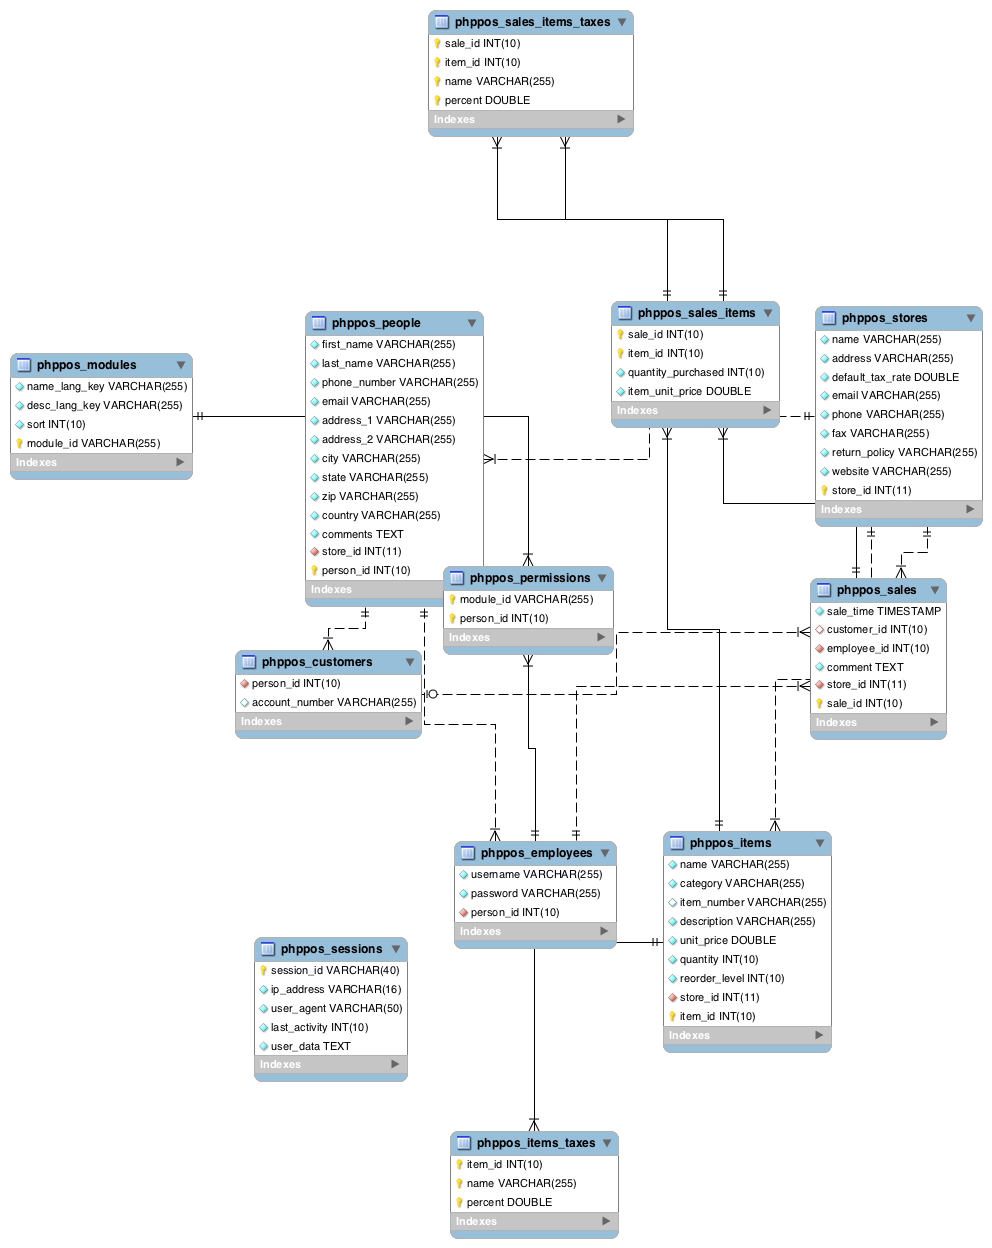
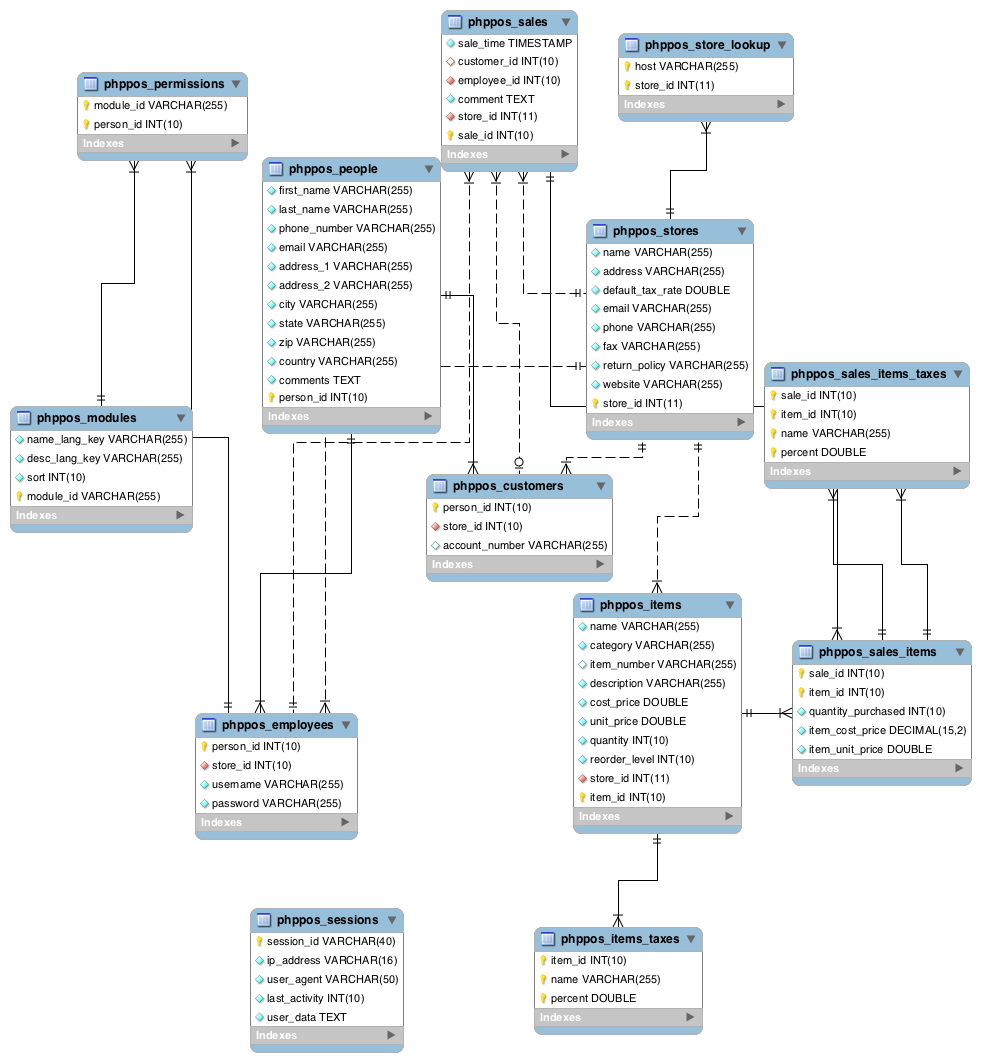
Adding support for multiple stores per install. Fixed some bugs because of multiple stores per install

Changed region(s): [[0.0612, 0.0, 1.0, 0.9944], [0.0, 0.2797, 0.2141, 0.5282]]

diff --git a/application/models/customer.php b/application/models/customer.php
@@ -21,7 +21,7 @@ class Customer extends Person
 	{
 		$this->db->from('customers');
 		$this->db->join('people','customers.person_id=people.person_id');
-		$this->db->where('people.store_id', $this->config->item('store_id'));
+		$this->db->where('customers.store_id', $this->config->item('store_id'));
 		$this->db->order_by("last_name", "asc");
 		return $this->db->get();		
 	}
@@ -147,6 +147,7 @@ class Customer extends Person
 		$suggestions = array();
 		
 		$this->db->from('customers');
+		$this->db->where('customers.store_id', $this->config->item('store_id'));
 		$this->db->join('people','customers.person_id=people.person_id');	
 		$this->db->like('first_name', $search); 
 		$this->db->or_like('last_name', $search);
@@ -159,6 +160,7 @@ class Customer extends Person
 		}
 		
 		$this->db->from('customers');
+		$this->db->where('customers.store_id', $this->config->item('store_id'));
 		$this->db->join('people','customers.person_id=people.person_id');	
 		$this->db->like("email",$search);
 		$this->db->order_by("email", "asc");		
@@ -169,6 +171,7 @@ class Customer extends Person
 		}
 
 		$this->db->from('customers');
+		$this->db->where('customers.store_id', $this->config->item('store_id'));
 		$this->db->join('people','customers.person_id=people.person_id');	
 		$this->db->like("phone_number",$search);
 		$this->db->order_by("phone_number", "asc");		
@@ -179,6 +182,7 @@ class Customer extends Person
 		}
 		
 		$this->db->from('customers');
+		$this->db->where('customers.store_id', $this->config->item('store_id'));
 		$this->db->join('people','customers.person_id=people.person_id');	
 		$this->db->like("account_number",$search);
 		$this->db->order_by("account_number", "asc");		
@@ -205,6 +209,7 @@ class Customer extends Person
 		$suggestions = array();
 		
 		$this->db->from('customers');
+		$this->db->where('customers.store_id', $this->config->item('store_id'));
 		$this->db->join('people','customers.person_id=people.person_id');	
 		$this->db->like('first_name', $search); 
 		$this->db->or_like('last_name', $search);
@@ -230,6 +235,7 @@ class Customer extends Person
 	function search($search)
 	{
 		$this->db->from('customers');
+		$this->db->where('customers.store_id', $this->config->item('store_id'));
 		$this->db->join('people','customers.person_id=people.person_id');		
 		$this->db->like('first_name', $search);
 		$this->db->or_like('last_name', $search); 

diff --git a/application/models/item.php b/application/models/item.php
@@ -63,6 +63,7 @@ class Item extends Model
 	function get_item_id($item_number)
 	{
 		$this->db->from('items');
+		$this->db->where('store_id', $this->config->item('store_id'));
 		$this->db->where('item_number',$item_number);
 		$query = $this->db->get();
 		
@@ -204,6 +205,7 @@ class Item extends Model
 		$suggestions = array();
 		
 		$this->db->from('items');
+		$this->db->where('store_id', $this->config->item('store_id'));
 		$this->db->like('name', $search); 
 		$this->db->order_by("name", "asc");		
 		$by_name = $this->db->get();
@@ -213,6 +215,7 @@ class Item extends Model
 		}
 		
 		$this->db->from('items');
+		$this->db->where('store_id', $this->config->item('store_id'));
 		$this->db->distinct();		
 		$this->db->like('category', $search); 
 		$this->db->order_by("category", "asc");		
@@ -223,6 +226,7 @@ class Item extends Model
 		}
 
 		$this->db->from('items');
+		$this->db->where('store_id', $this->config->item('store_id'));
 		$this->db->like('item_number', $search); 
 		$this->db->order_by("item_number", "asc");		
 		$by_item_number = $this->db->get();
@@ -246,6 +250,7 @@ class Item extends Model
 		$suggestions = array();
 		
 		$this->db->from('items');
+		$this->db->where('store_id', $this->config->item('store_id'));		
 		$this->db->like('name', $search); 
 		$this->db->order_by("name", "asc");		
 		$by_name = $this->db->get();
@@ -268,6 +273,7 @@ class Item extends Model
 		$this->db->distinct();
 		$this->db->select('category');
 		$this->db->from('items');
+		$this->db->where('store_id', $this->config->item('store_id'));
 		$this->db->like('category', $search); 		
 		$this->db->order_by("category", "asc");		
 		$by_category = $this->db->get();
@@ -285,6 +291,7 @@ class Item extends Model
 	function search($search)
 	{
 		$this->db->from('items');
+		$this->db->where('store_id', $this->config->item('store_id'));
 		$this->db->like('name', $search); 
 		$this->db->or_like('item_number', $search);
 		$this->db->or_like('category', $search);

diff --git a/application/models/reports/report.php b/application/models/reports/report.php
@@ -28,10 +28,11 @@ abstract class Report extends Model
 	public function createSalesItemsTempTable()
 	{
 		$this->db->query("CREATE TEMPORARY TABLE ".$this->db->dbprefix('sales_items_temp')." 
-		(SELECT date(sale_time) as sale_date, sale_id, customer_id, employee_id, item_id, quantity_purchased, item_unit_price, SUM(percent) as item_tax_percent, 
+		(SELECT date(sale_time) as sale_date, sale_id, customer_id, employee_id, item_id, quantity_purchased, item_cost_price, item_unit_price, SUM(percent) as item_tax_percent, 
 		(item_unit_price*quantity_purchased) as subtotal,
 		ROUND((item_unit_price*quantity_purchased)*(1+(SUM(percent)/100)),2) as total,
-		ROUND((item_unit_price*quantity_purchased)*(SUM(percent)/100),2) as tax
+		ROUND((item_unit_price*quantity_purchased)*(SUM(percent)/100),2) as tax,
+		(item_unit_price*quantity_purchased) - (item_cost_price*quantity_purchased) as profit
 		FROM ".$this->db->dbprefix('sales_items')."
 		INNER JOIN ".$this->db->dbprefix('sales')." USING (sale_id) 
 		LEFT OUTER JOIN ".$this->db->dbprefix('sales_items_taxes')." USING (sale_id, item_id)

diff --git a/application/controllers/employees.php b/application/controllers/employees.php
@@ -60,8 +60,7 @@ class Employees extends Person_controller
 		'state'=>$this->input->post('state'),
 		'zip'=>$this->input->post('zip'),
 		'country'=>$this->input->post('country'),
-		'comments'=>$this->input->post('comments'),
-		'store_id'=>$this->config->item('store_id')
+		'comments'=>$this->input->post('comments')
 		);
 		$permission_data = $this->input->post("permissions")!=false ? $this->input->post("permissions"):array();
 		
@@ -69,6 +68,7 @@ class Employees extends Person_controller
 		if($this->input->post('password')!='')
 		{
 			$employee_data=array(
+			'store_id'=>$this->config->item('store_id'),		
 			'username'=>$this->input->post('username'),
 			'password'=>md5($this->input->post('password'))
 			);

diff --git a/application/controllers/customers.php b/application/controllers/customers.php
@@ -59,10 +59,10 @@ class Customers extends Person_controller
 		'state'=>$this->input->post('state'),
 		'zip'=>$this->input->post('zip'),
 		'country'=>$this->input->post('country'),
-		'comments'=>$this->input->post('comments'),
-		'store_id'=>$this->config->item('store_id')
+		'comments'=>$this->input->post('comments')
 		);
 		$customer_data=array(
+		'store_id'=>$this->config->item('store_id'),		
 		'account_number'=>$this->input->post('account_number')=='' ? null:$this->input->post('account_number'),
 		);
 		if($this->Customer->save($person_data,$customer_data,$customer_id))

diff --git a/application/hooks/load_config.php b/application/hooks/load_config.php
@@ -3,6 +3,15 @@
 function load_config()
 {
 	$CI =& get_instance();
+	
+	//get the store_id based on $_SERVER['HTTP_HOST']
+	$store_info = $CI->Store_lookup->get_info(isset($_SERVER['HTTPS']) && strtolower($_SERVER['HTTPS']) == 'on' ? 'https' : 'http' . '://'. $_SERVER['HTTP_HOST']);
+	
+	if (isset($store_info->store_id))
+	{
+		$CI->config->set_item('store_id', $store_info->store_id);
+	}
+	
 	foreach($CI->Store->get_info($CI->config->item('store_id')) as $key=>$value)
 	{
 		$CI->config->set_item($key,$value);

diff --git a/application/models/employee.php b/application/models/employee.php
@@ -21,7 +21,7 @@ class Employee extends Person
 	{
 		$this->db->from('employees');
 		$this->db->join('people','employees.person_id=people.person_id');
-		$this->db->where('people.store_id', $this->config->item('store_id'));
+		$this->db->where('employees.store_id', $this->config->item('store_id'));
 		$this->db->order_by("last_name", "asc");
 		return $this->db->get();		
 	}

diff --git a/application/models/store_lookup.php b/application/models/store_lookup.php
@@ -1,0 +1,21 @@
+<?php
+class Store_lookup extends Model
+{
+	/*
+	Gets information about a particular store host
+	*/
+	function get_info($host)
+	{
+		$this->db->from('store_lookup');	
+		$this->db->where('host',$host);
+		$query = $this->db->get();
+		
+		if($query->num_rows()==1)
+		{
+			return $query->row();
+		}
+		
+		return false;
+	}
+}
+?>

diff --git a/application/config/autoload.php b/application/config/autoload.php
@@ -108,7 +108,7 @@ $autoload['language'] = array('common', 'config', 'customers', 'employees', 'err
 |
 */
 
-$autoload['model'] = array('Person','Customer','Employee','Module','Item', 'Item_taxes', 'Sale', 'Store');
+$autoload['model'] = array('Person','Customer','Employee','Module','Item', 'Item_taxes', 'Sale', 'Store', 'Store_lookup');
 
 
 /*

diff --git a/application/models/person.php b/application/models/person.php
@@ -15,7 +15,6 @@ class Person extends Model
 	function get_all()
 	{
 		$this->db->from('people');
-		$this->db->where('people.store_id', $this->config->item('store_id'));
 		$this->db->order_by("last_name", "asc");
 		return $this->db->get();		
 	}
